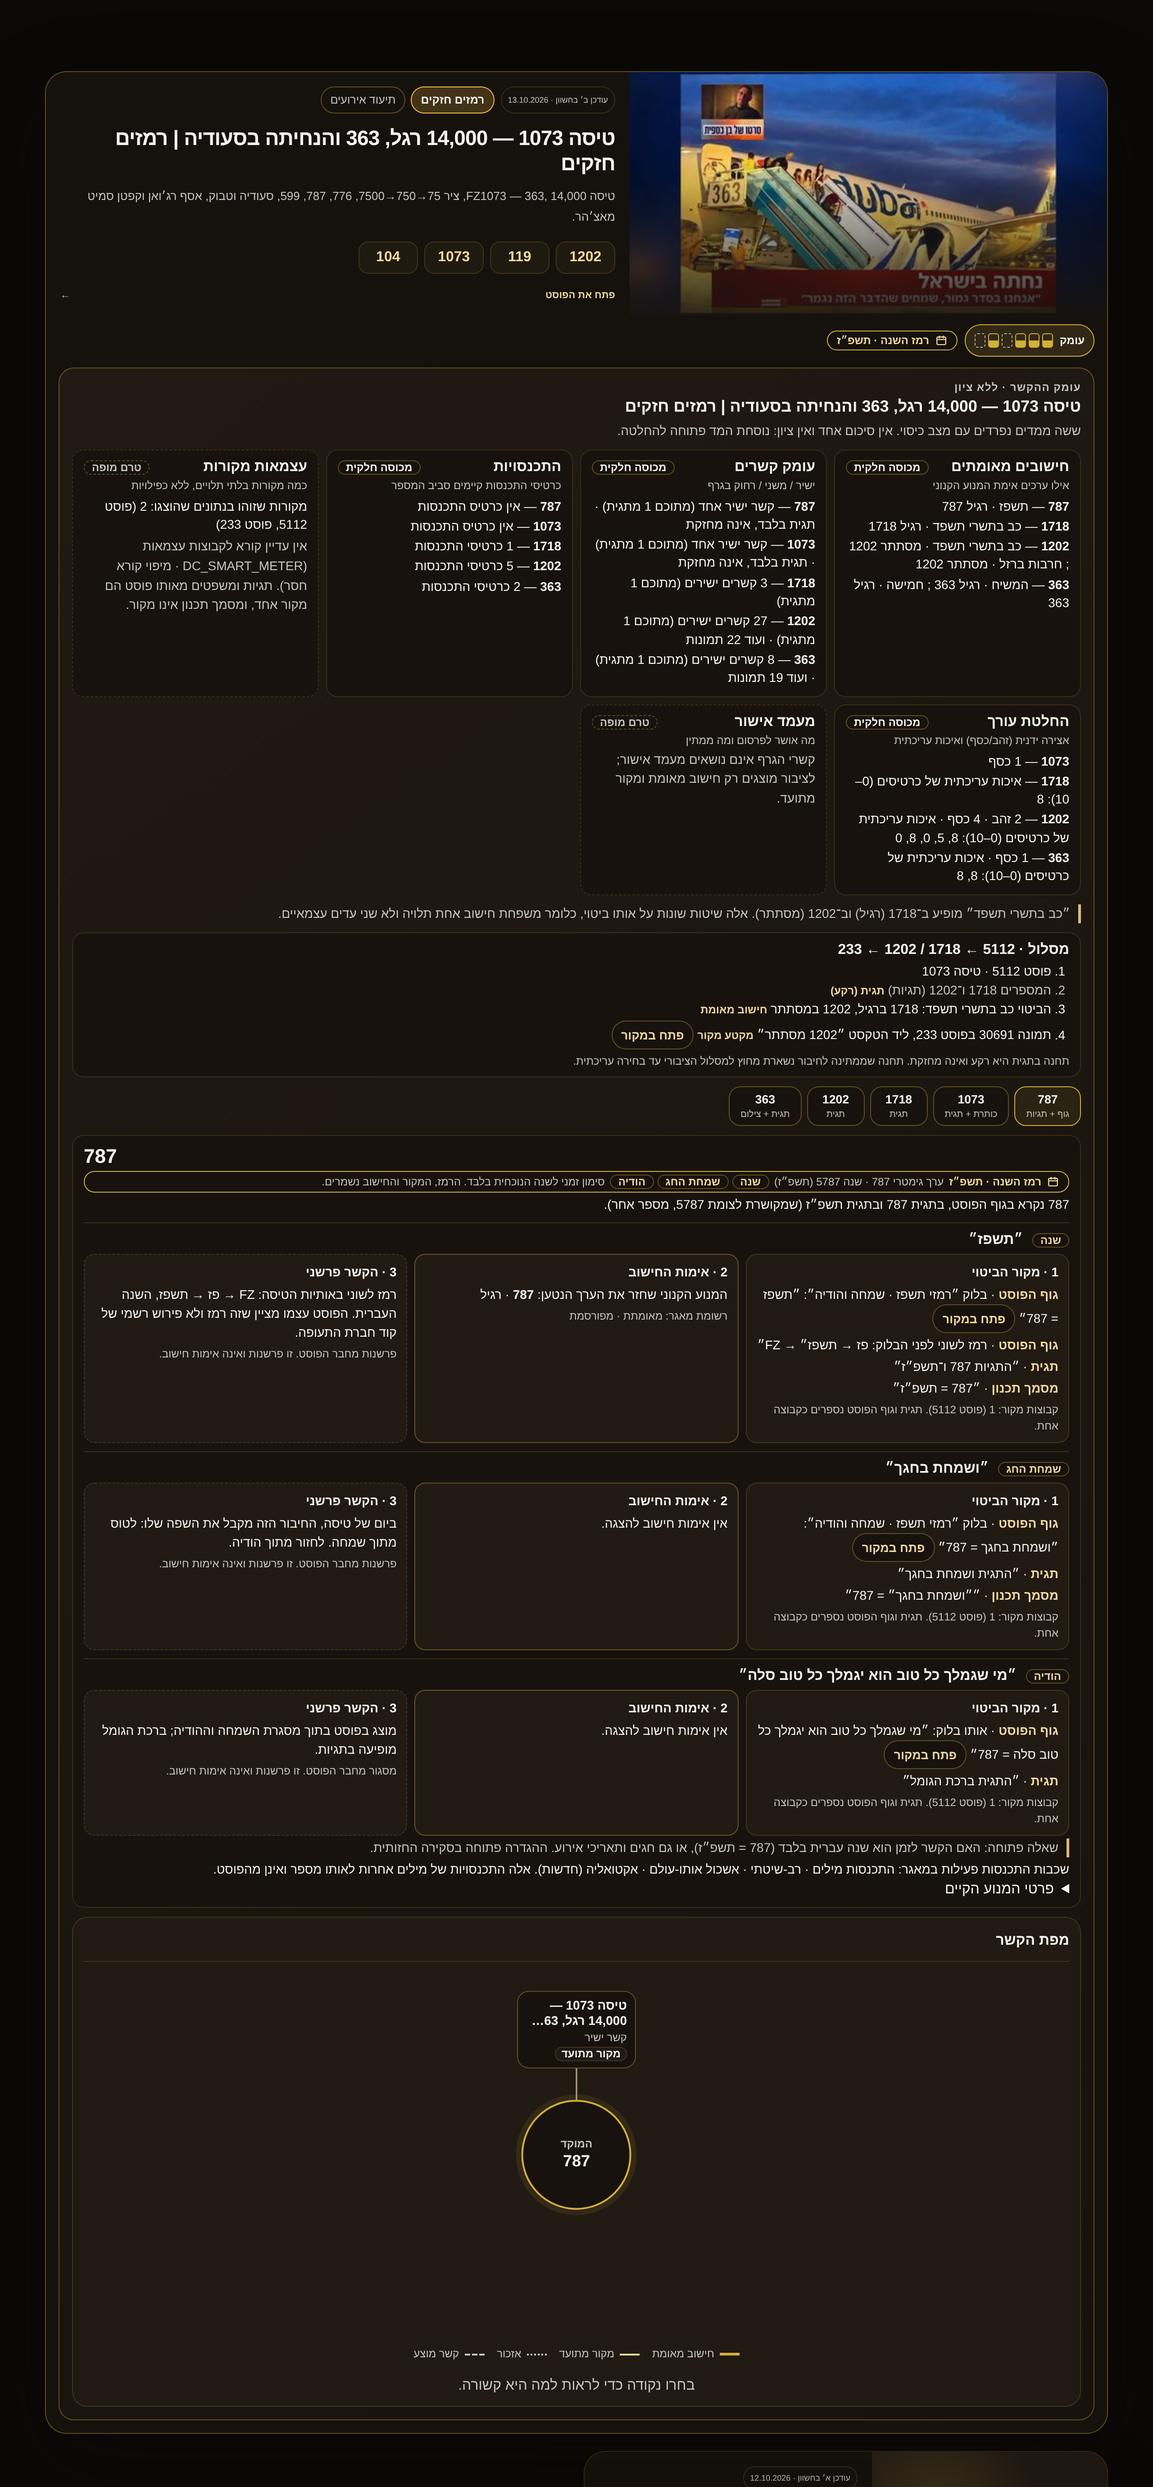
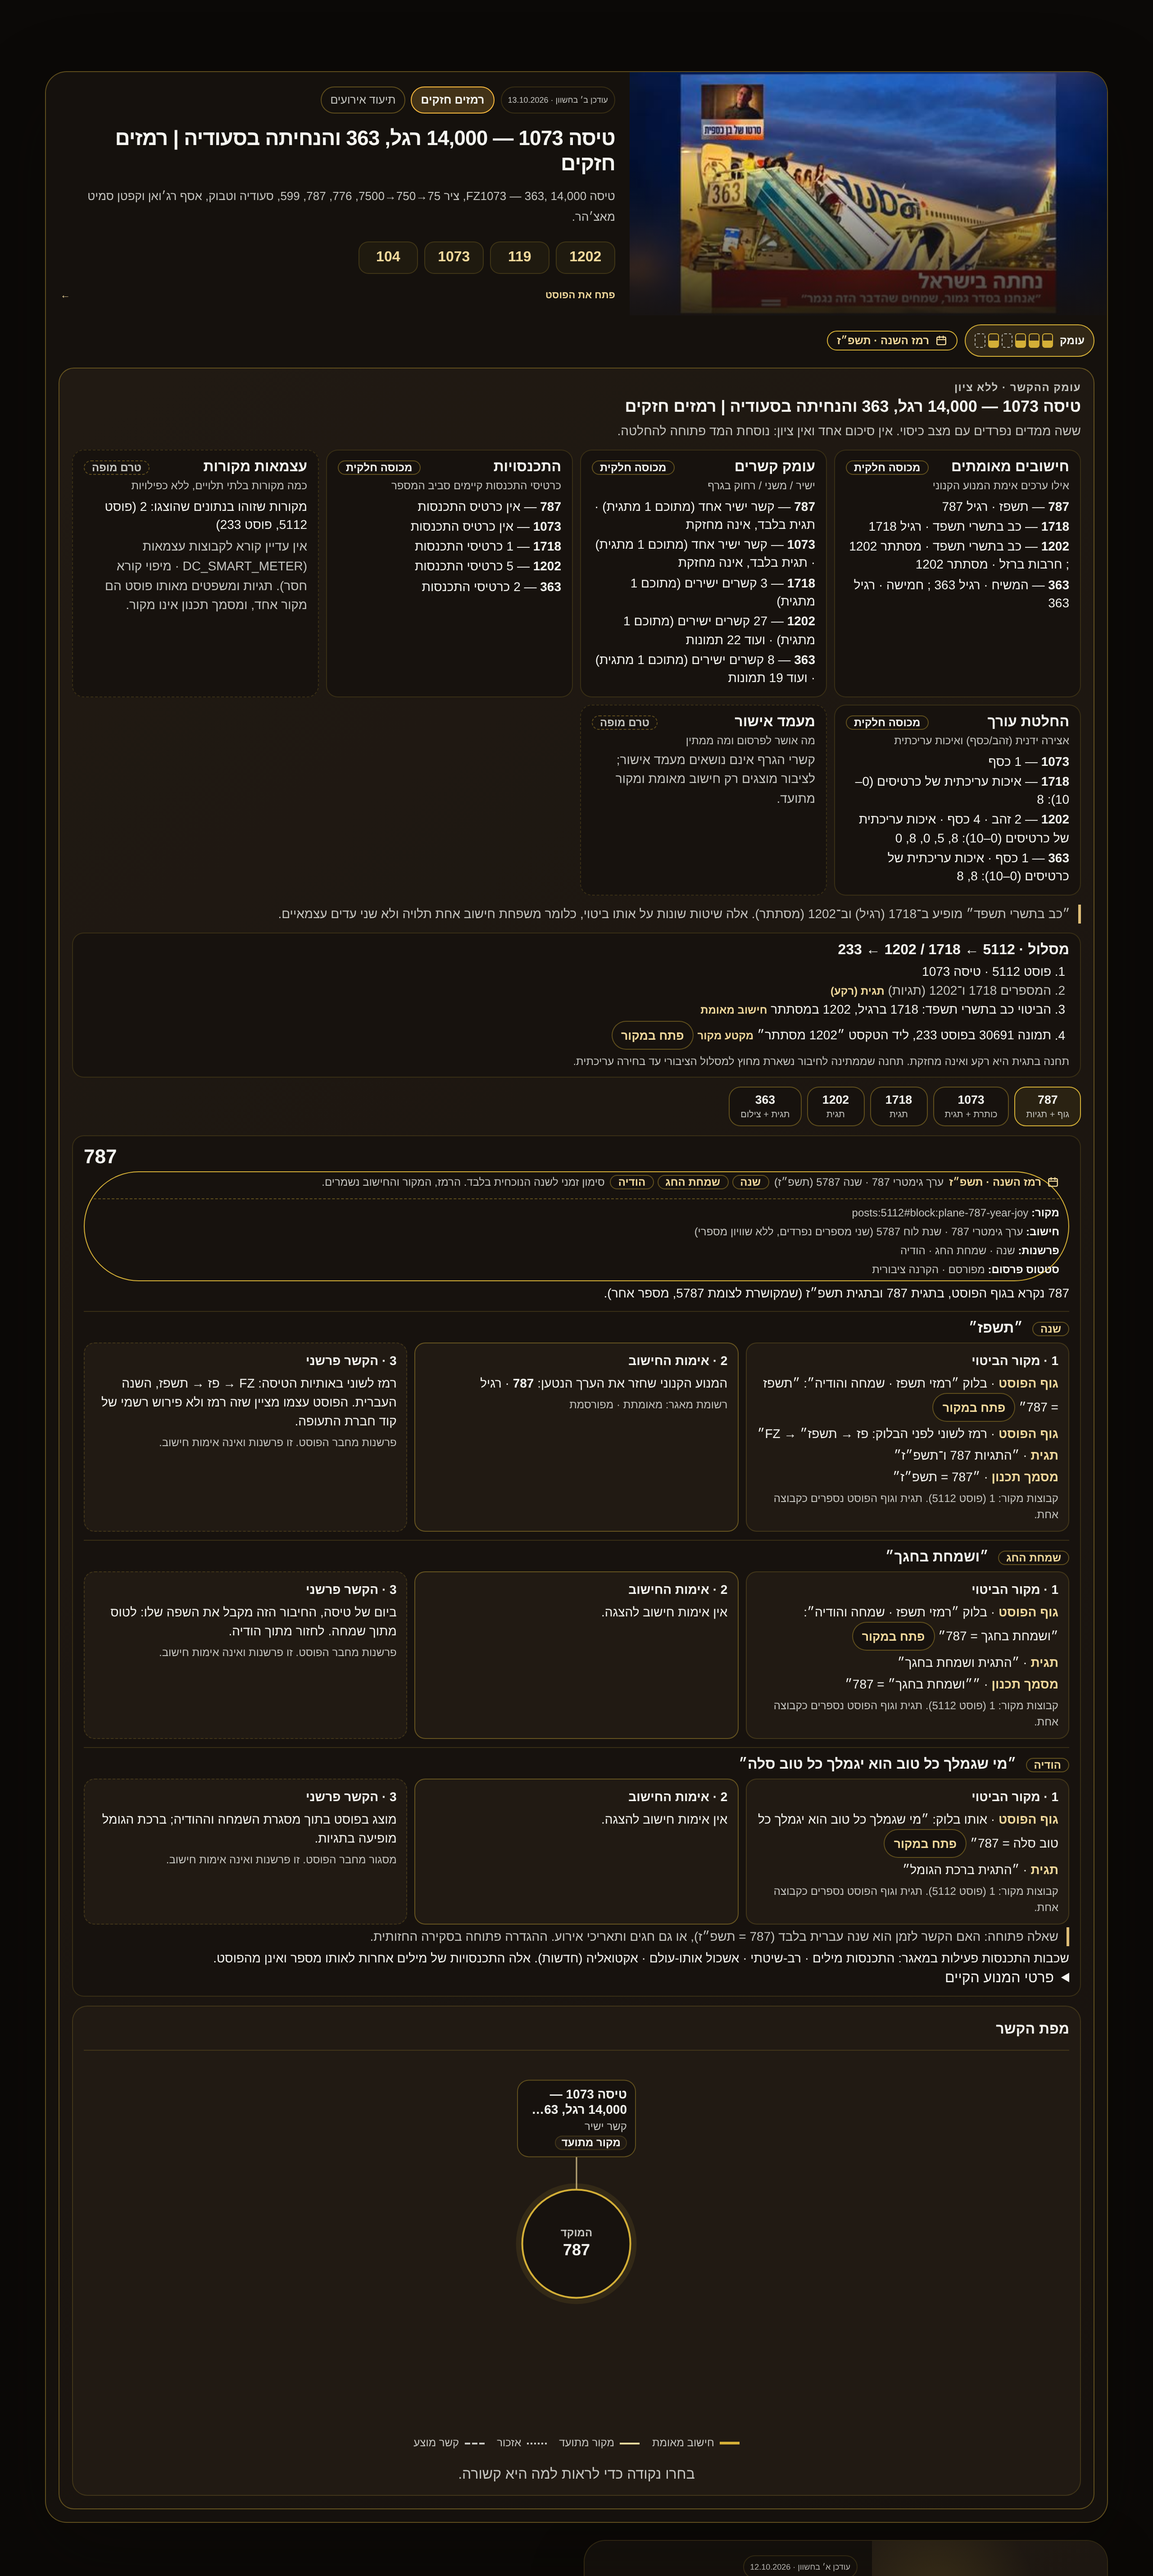
feat(context-depth): 787 unit decision in the reviewed witness spec (admin preview only, public blocked)
Claude-Session: https://claude.ai/code/session_01PjQC67fTYkRsbVSwpjWPZT

diff --git a/src/lib/research/unitApproval2029.js b/src/lib/research/unitApproval2029.js
@@ -17,7 +17,7 @@ import { supabase } from "../supabase.js";
 export const APPROVAL = Object.freeze({ NONE: "none", CONTAINER_LEVEL_ONLY: "container_level_only", APPROVED_UNPUBLISHED: "approved_unpublished", PUBLISHED: "published" });
 export const PUBLIC_YEAR_HINT_PROJECTION = Object.freeze({ available: false, owner: null,
   reason: "no authorised public projection of an approval decision exists (research_objects is not publicly readable and has no live publication path)" });
-export const CHANNEL = Object.freeze({ RESEARCH_OBJECTS: "research_objects", PUBLIC_PROJECTION: "public_projection" });
+export const CHANNEL = Object.freeze({ RESEARCH_OBJECTS: "research_objects", PUBLIC_PROJECTION: "public_projection", WITNESS_SPEC: "witness_spec" });
 const APPROVED_STATUS = new Set(["approved", "canonical"]);
 const COLUMNS = "id,kind,status,privacy_scope,relates,terms,source_ref";   // explicit columns: never `*`, never the row text, author or meta
 
@@ -42,6 +42,29 @@ export function matchUnitApproval(rows, hint, { channel = CHANNEL.RESEARCH_OBJEC
   return best;
 }
 
+/**
+ * Decision recorded on the reviewed unit itself (the existing witness spec). It is an approved-UNPUBLISHED decision for the admin
+ * preview: its channel is never `public_projection`, so it can not publish anything. It must cover the unit: a stable unit
+ * source_ref, a locator id equal to that ref's block, and every layer expression listed among the approval terms.
+ */
+export function witnessSpecApproval(hint) {
+  const none = { state: APPROVAL.NONE, rowId: null, channel: CHANNEL.WITNESS_SPEC };
+  const review = hint?.review, ref = canonicalResearchSourceRef(hint?.unit?.sourceRef);
+  if (review?.status !== "reviewed_in_witness_spec" || review.publication !== "blocked" || !ref || !hint.unit.containerRef) return none;
+  if (!ref.endsWith(`#block:${hint.unit.locatorId}`)) return none;
+  const terms = new Set((hint.approvalTerms || []).map(guardKey));
+  const layers = hint.layers || [];
+  if (!layers.length || !layers.every((l) => terms.has(guardKey(l.expression)))) return none;
+  return { state: APPROVAL.APPROVED_UNPUBLISHED, rowId: null, channel: CHANNEL.WITNESS_SPEC, decidedBy: review.decidedBy };
+}
+
+/** The strongest unit-level answer across the database owner and the reviewed witness spec; neither can publish. */
+export function resolveHintApproval(rows, hint) {
+  const db = matchUnitApproval(rows, hint), spec = witnessSpecApproval(hint);
+  const rank = [APPROVAL.NONE, APPROVAL.CONTAINER_LEVEL_ONLY, APPROVAL.APPROVED_UNPUBLISHED, APPROVAL.PUBLISHED];
+  return rank.indexOf(spec.state) > rank.indexOf(db.state) ? spec : db;
+}
+
 /** Admin session only. Public and signed-in users never query research_objects for this; any error fails closed to no rows. */
 export async function fetchUnitApprovalRows(containerRef, { audience = "public", client = supabase } = {}) {
   if (audience !== "admin" || !containerRef) return [];
@@ -54,6 +77,6 @@ export async function fetchUnitApprovalRows(containerRef, { audience = "public",
 
 export async function resolveUnitApprovals(hints, options = {}) {
   const out = {};
-  for (const hint of hints) out[hint.id] = matchUnitApproval(await fetchUnitApprovalRows(hint.unit?.containerRef, options), hint);
+  for (const hint of hints) out[hint.id] = resolveHintApproval(await fetchUnitApprovalRows(hint.unit?.containerRef, options), hint);
   return out;
 }

diff --git a/src/components/experience2029/ContextDepthMeter2029.jsx b/src/components/experience2029/ContextDepthMeter2029.jsx
@@ -26,11 +26,12 @@ function factLine(dim) {
 const THEME_LABEL = Object.freeze({ year: "שנה", holiday: "שמחת החג", gratitude: "הודיה" });
 const HINT_NOTE = Object.freeze({
   active: "סימון זמני לשנה הנוכחית בלבד. הרמז, המקור והחישוב נשמרים.",
-  approved_unpublished: "קיים אישור עריכתי לקישור, אך הוא טרם פורסם: הציבור אינו רואה את הסימון.",
+  approved_unpublished: "קיימת החלטה עריכתית ליחידה, אך הפרסום חסום: הציבור אינו רואה את הסימון.",
   candidate: "אין אישור שמכסה את היחידה הזו (שכבות השנה, החג וההודיה): מוצג בתצוגת מנהל בלבד.",
   archived: "השנה התחלפה: הסימון אינו מוצג כעכשווי. הרמז, המקור והחישוב נשמרים בקבוצת השנה.",
   upcoming: "השנה טרם הגיעה: הסימון אינו מוצג כעכשווי.",
 });
+const CHANNEL_LABEL = Object.freeze({ witness_spec: "החלטה במפרט ה־witness (קוד סקור)", research_objects: "רשומת מחקר מאושרת", public_projection: "הקרנה ציבורית" });
 function YearHint({ hint, compact = false }) {
   return <span className="sod29-year-hint" data-state={hint.state} data-year-hint={hint.id} data-unit-kind={hint.unit?.kind}>
     <svg viewBox="0 0 20 20" width="14" height="14" fill="none" stroke="currentColor" strokeWidth="1.7" strokeLinecap="round" aria-hidden="true">
@@ -40,6 +41,12 @@ function YearHint({ hint, compact = false }) {
       <small>{hint.valueLabel} · {hint.yearLabel}</small>
       {hint.layers?.length ? <span className="sod29-year-hint-layers">{hint.layers.map((l) => <i key={l.key} data-layer={l.key}>{l.label}</i>)}</span> : null}
       <small>{HINT_NOTE[hint.state]}</small>
+      <span className="sod29-year-hint-facts" data-year-hint-facts>
+        <small data-fact="source"><b>מקור:</b> {hint.sourceRef ? <bdi dir="ltr">{hint.sourceRef}</bdi> : "—"}</small>
+        <small data-fact="calculation"><b>חישוב:</b> ערך גימטרי <bdi dir="ltr">{hint.numbers.gematria}</bdi> · שנת לוח <bdi dir="ltr">{hint.numbers.calendarYear}</bdi> (שני מספרים נפרדים, ללא שוויון מספרי)</small>
+        <small data-fact="interpretation"><b>פרשנות:</b> {hint.layers.map((l) => l.label).join(" · ")}</small>
+        <small data-fact="publication"><b>סטטוס פרסום:</b> {hint.publication === "published" ? "מפורסם" : "חסום"}{hint.approvalChannel ? ` · ${CHANNEL_LABEL[hint.approvalChannel] || hint.approvalChannel}` : ""}</small>
+      </span>
     </>}
   </span>;
 }

diff --git a/test/fixtures/context-map-harness/depth-main.jsx b/test/fixtures/context-map-harness/depth-main.jsx
@@ -13,7 +13,7 @@ import { cardReturnTo, cardRestoreFor } from "../../../src/lib/research/journeyS
 import { buildExactReturnPatch } from "../../../src/lib/research/researchContext.js";
 import { getCurrentTemporalContext } from "../../../src/lib/timeFlow.js";
 import { DESIGN_V2_PALETTES } from "../../../src/lib/palette.js";
-import { matchUnitApproval } from "../../../src/lib/research/unitApproval2029.js";
+import { resolveHintApproval } from "../../../src/lib/research/unitApproval2029.js";
 import { POST_5112, NUMBERS_5112, POST_ROW_5112, POST_ROW_5113, GRAPH_BY_NUMBER, NODE_BY_NUMBER, ENGINE_BY_LABEL, YEAR_HINTS_5112, PATHS_5112, APPROVAL_ROW_5112, APPROVAL_ROW_UNIT_SIMULATED } from "./depthFixture.js";
 import fixture from "../post-locators-5112-233.json";
 import "../../../src/pages/posts2029.css";
@@ -30,12 +30,12 @@ const vars = { "--s29-page": p.pageBg, "--s29-panel": p.card, "--s29-panel-soft"
 
 const NOW = getCurrentTemporalContext(new Date(q.get("date") || "2026-10-20T12:00:00+03:00"));
 const paths = q.get("selected") === "1" ? PATHS_5112.map((x) => ({ ...x, stations: x.stations.map((s) => (s.pending ? { ...s, editorialSelection: true } : s)) })) : PATHS_5112;
-// approval=real (default): the real broad row db28c232… (container level only). unit = a SIMULATED unit-level approval, not yet published.
+// approval=real (default): the real broad row db28c232… (container level only) + the unit decision in the reviewed witness spec (admin preview, publication blocked). unit = a SIMULATED unit-level approval, not yet published.
 // published = a SIMULATED public projection of the decision (none exists today) used only to show the live marker and the rollover. none = no row.
 const mode = q.get("approval") || "real";
 const approvals = Object.fromEntries(YEAR_HINTS_5112.map((h) => [h.id, mode === "published"
   ? { state: "published", channel: "public_projection", rowId: "simulated" }
-  : matchUnitApproval({ real: [APPROVAL_ROW_5112], unit: [APPROVAL_ROW_UNIT_SIMULATED], none: [] }[mode] || [], h)]));
+  : resolveHintApproval({ real: [APPROVAL_ROW_5112], unit: [APPROVAL_ROW_UNIT_SIMULATED], none: [] }[mode] || [], mode === "none" ? { ...h, review: null } : h)]));
 const depth = buildContextDepth({ subject: POST_5112, numbers: NUMBERS_5112, audience, temporal: NOW, yearHints: YEAR_HINTS_5112, approvals, paths });
 const byId = Object.fromEntries(Object.values(NODE_BY_NUMBER).map((n) => [n.id, n]));
 const strip = (l) => l.replace(/[״"]/g, "");

diff --git a/src/lib/research/worldSourceConnections.js b/src/lib/research/worldSourceConnections.js
@@ -283,6 +283,9 @@ export const REVIEWED_POST_LOCATORS = Object.freeze([
     // Approval is NOT stored here: an admin-session read of the existing research_objects owner (unitApproval2029); the public
     // marker stays blocked until an authorised public projection of the decision exists.
     yearHint: { unit: { kind: 'source_region', containerRef: 'post:5112' }, link: 'explicit_documented',
+      // Editorial decision on THIS unit, recorded in reviewed code (ZURIEL chose option A, 20.10.2026). It covers the admin preview only:
+      // `publication: 'blocked'` keeps the public marker off until an authorised public projection exists; it is not a database approval.
+      review: { status: 'reviewed_in_witness_spec', decidedBy: 'ZURIEL', scope: 'admin_preview', publication: 'blocked' },
       binding: { hebrewYear: 5787, yearLabel: 'תשפ״ז', value: 787, expression: 'תשפז' },
       layers: [{ key: 'year', label: 'שנה', expression: 'תשפז' }, { key: 'holiday', label: 'שמחת החג', expression: 'ושמחת בחגך' },
         { key: 'gratitude', label: 'הודיה', expression: 'מי שגמלך כל טוב הוא יגמלך כל טוב סלה' }],
@@ -294,7 +297,7 @@ export const REVIEWED_POST_LOCATORS = Object.freeze([
 ]);
 // Year-hint descriptor of a reviewed unit, keyed by the unit's source_ref (never by a number or a WordPress id).
 export const yearHintOf = (spec) => spec?.yearHint ? { id: spec.id, link: spec.yearHint.link, unit: { ...spec.yearHint.unit, sourceRef: `posts:${spec.postId}#block:${spec.id}`, locatorId: spec.id },
-  ...spec.yearHint.binding, layers: spec.yearHint.layers, approvalTerms: spec.yearHint.approvalTerms } : null;
+  ...spec.yearHint.binding, layers: spec.yearHint.layers, approvalTerms: spec.yearHint.approvalTerms, review: spec.yearHint.review || null } : null;
 export const postLocatorSpec = (id) => REVIEWED_POST_LOCATORS.find((spec) => spec.id === id) || null;
 // Rendered-DOM form of a reviewed spec (same guards the HTML locator uses).
 export const renderedLocatorOf = (spec) => spec.postBlock

diff --git a/src/lib/research/contextDepthProjection2029.js b/src/lib/research/contextDepthProjection2029.js
@@ -182,7 +182,11 @@ export function buildYearHints(hints = [], temporal = null, audience = "public",
     const published = approval === "published" && approvals?.[hint.id]?.channel === "public_projection";
     if (!published && !admin) return [];
     const base = { id: hint.id, unit: hint.unit, value: hint.value, hebrewYear: hint.hebrewYear, valueLabel: `ערך גימטרי ${hint.value}`,
-      yearLabel: `שנה ${hint.hebrewYear} (${hint.yearLabel})`, layers: hint.layers || [], approval, locatorId: hint.unit.locatorId ?? null };
+      yearLabel: `שנה ${hint.hebrewYear} (${hint.yearLabel})`, layers: hint.layers || [], approval, locatorId: hint.unit.locatorId ?? null,
+      approvalChannel: approvals?.[hint.id]?.channel ?? null, sourceRef: hint.unit.sourceRef ?? null,
+      // Four separate answers: where it is written, what the engine says about the number, how it is framed, and whether it is published.
+      publication: published ? "published" : "blocked",
+      numbers: { gematria: hint.value, calendarYear: hint.hebrewYear } };
     const current = hebrew.year === hint.hebrewYear && hebrew.year_value === hint.value;
     if (!current) return [{ ...base, state: hebrew.year > hint.hebrewYear ? "archived" : "upcoming", label: `קבוצת שנה · ${hint.yearLabel}` }];
     if (published) return [{ ...base, state: "active", label: `רמז השנה · ${hebrew.year_label}` }];

diff --git a/src/components/experience2029/contextDepthMeter2029.css b/src/components/experience2029/contextDepthMeter2029.css
@@ -65,3 +65,6 @@
 .sod29-year-hint-layers{display:inline-flex;flex-wrap:wrap;gap:4px}
 .sod29-year-hint-layers i,.sod29-depth-theme{font-style:normal;border:1px solid var(--s29-line-strong);border-radius:999px;padding:0 8px;font-size:var(--s29-type-micro);font-weight:800;color:var(--s29-accent-text)}
 .sod29-depth-expr h5 .sod29-depth-theme{margin-inline-end:6px}
+.sod29-year-hint-facts{display:grid;gap:3px;width:100%;margin-top:4px;padding-top:6px;border-top:1px dashed var(--s29-line-strong)}
+.sod29-year-hint-facts small{line-height:1.5;overflow-wrap:anywhere}
+.sod29-year-hint-facts b{color:var(--s29-ink)}

diff --git a/docs/context-depth-year-hint-publication-path-20261020.md b/docs/context-depth-year-hint-publication-path-20261020.md
@@ -42,3 +42,9 @@
 2. הרשומה הצרה ברמת היחידה אינה קיימת: `approved_unpublished` מוצג רק בהדמיה.
 3. בדיקת דפדפן מול האפליקציה המלאה (סשן אמיתי: אורח, משתמש, אדמין), לא בהרנס.
 4. אחרי שיוחלט על נתיב פרסום: קבלה שהציבור קורא רק את החלטת היחידה, בלי הסינתזה הרחבה.
+
+## Update 20.10.2026 — option A chosen (unit decision in the reviewed witness spec)
+- `REVIEWED_POST_LOCATORS['plane-787-year-joy']` is the unit `posts:5112#block:plane-787-year-joy` (stable locator + guards, three layers: תשפ״ז / ושמחת בחגך / מי שגמלך כל טוב הוא יגמלך כל טוב סלה) and now carries `yearHint.review` (`reviewed_in_witness_spec`, scope `admin_preview`, `publication: 'blocked'`).
+- `witnessSpecApproval` turns that into `approved_unpublished` on channel `witness_spec` only when the locator matches the unit ref and every layer is named in the terms. It can never publish: the public marker still needs `published` on `public_projection`, which does not exist. The broad row `db28c232…` adds nothing and is neither published nor relied on.
+- Admin preview shows "רמז השנה · תשפ״ז" with four separate facts: source (unit ref + open-in-source), calculation (gematria 787 vs calendar year 5787), interpretation (year / holiday joy / gratitude) and publication status (blocked).
+- Not done (still missing for a public marker): an authorised public projection of the decision; a stable authored `id` on the 787 block (content edit, needs separate approval); an integration test against the real DB with real sessions.
